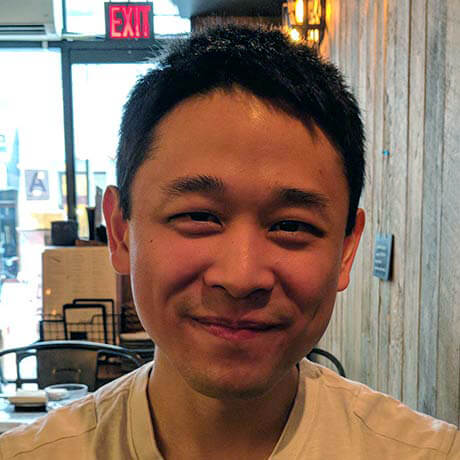
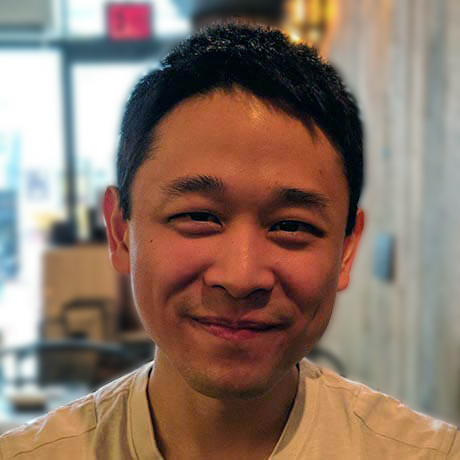
Modified hero

diff --git a/index.html b/index.html
@@ -63,9 +63,9 @@
     <section id="showcase" class="d-flex justify-content-center align-items-center">
         <div id="overlay"></div>
         <div id="header" class="container text-white text-center">
-            <p><h1 id="showcase-title" class="display-3 text-shadow animated bounce slow infinite">👋🏼Hello there!</h1><small class="text-shadow">General Kenobi</small></p>
+            <p><h1 id="showcase-title" class="display-3 text-shadow animated bounce slow infinite">👋🏼Hello there!</h1></p>
             <img id="me" src="assets/images/profile.jpg" alt="Picture of Tom Hsu">
-            <h3 class="lead d-none d-md-block pt-3 animated fadeInUp">My name is <u>Tom</u> Hsu (pronounced sho͞o) - that's right! Like a shoe.</h3>
+            <h3 class="lead d-none d-md-block pt-3 animated fadeInUp">Who? <u>Tom</u> Hsu (pronounced sho͞o) - that's right! Like a shoe.</h3>
             <h3 class="lead d-none d-md-block pt-3 animated fadeInUp"><u>UX</u> Designer & <u>Frontend</u> Web Developer</h3>
         </div>
     </section>
